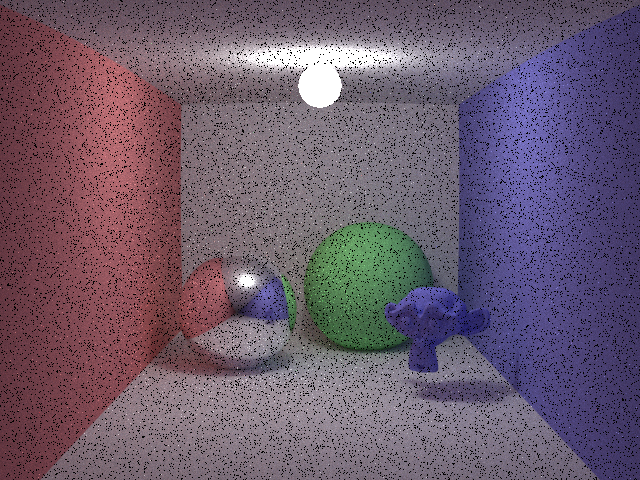
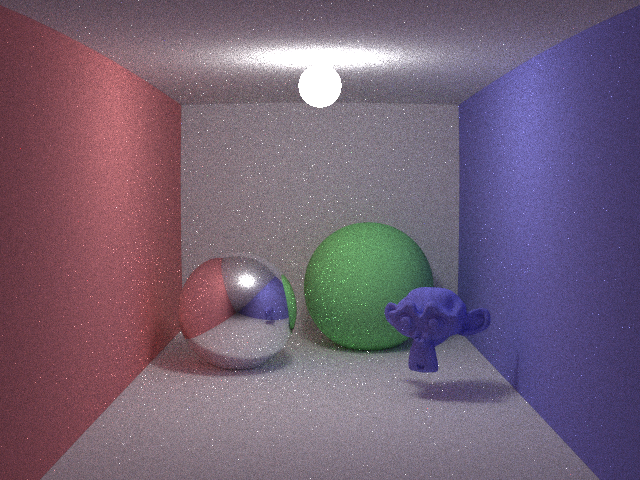
Update README.md and gallery images.

diff --git a/README.md b/README.md
@@ -5,7 +5,7 @@ Aten is Egyptian sun god.
 
 Idaten(path tracing on GPGPU) is under construction.<br>
 Idaten is Japanese god, it runs fast.
-And Idanten include characters of aten, "id**aten**"
+And Idanten includes characters of aten, "id**aten**"
 
 ## Features
 
@@ -27,6 +27,7 @@ And Idanten include characters of aten, "id**aten**"
   - Microfacet Beckman
   - Microfacet GGX
   - Disney BRDF
+  - Car Paint (Experimental)
   - Toon(Non Photoreal)
   - Layer
 - Lights
@@ -99,14 +100,14 @@ And Idanten include characters of aten, "id**aten**"
 
 ### Windows
 
-1. Install `CUDA 8.0` and depended nVidia driver
+1. Install `CUDA 8.0` or later and depended NVIDIA driver
 2. Run `aten/3rdparty/Build3rdParty.bat Debug` or `aten/3rdparty/Build3rdParty.bat Release`
 3. Launch `aten/vs2015/aten.sln`
 4. Build porjects with `x64` (not support `x86`)
 
 ### Linux
 
-1. Install `CUDA 8.0` and depended nVidia driver
+1. Install `CUDA 8.0` or later and depended NVIDIA driver
 2. Install `libglfw3`, `libglew`
 
 `sudo apt-get install libglfw3-dev`
@@ -115,6 +116,8 @@ And Idanten include characters of aten, "id**aten**"
 
 3. `cd aten/build`
 4. Run make `make Debug` or `make Release`
+
+I confirmed Windows10 and Ubuntu16.04.
 
 ## Gallery
 
@@ -130,10 +133,10 @@ Bi-Directional PathTracing 100spp
 
 ![BDPT](gallery/bdpt100.png)
 
-PSSMLT 10spp 100mlt 100mutation
+PSSMLT 10spp 10mlt 10mutation
 
-![PSSMLT](gallery/pssmlt_10spp_100mutation_100mlt.png)
+![PSSMLT](gallery/pssmlt_10spp_10mutation_10mlt.png)
 
-ERPT 10spp 10mutation
+GPGPU 1spp
 
-![ERPT](gallery/erpt_10spp_10mutation.png)
+![GPGPU_1spp](gallery/gpgpu_1spp.png)
